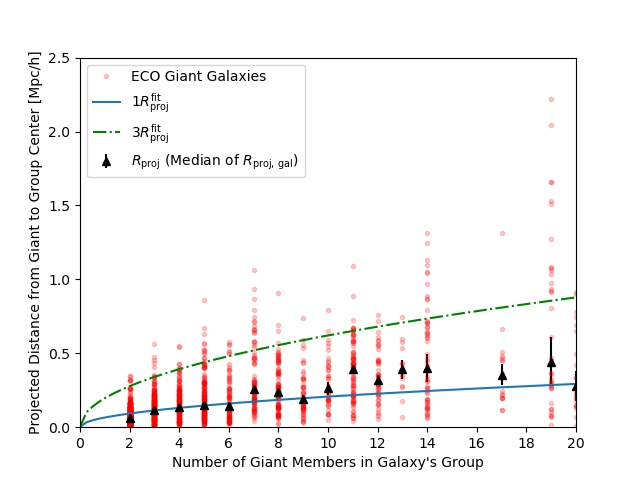
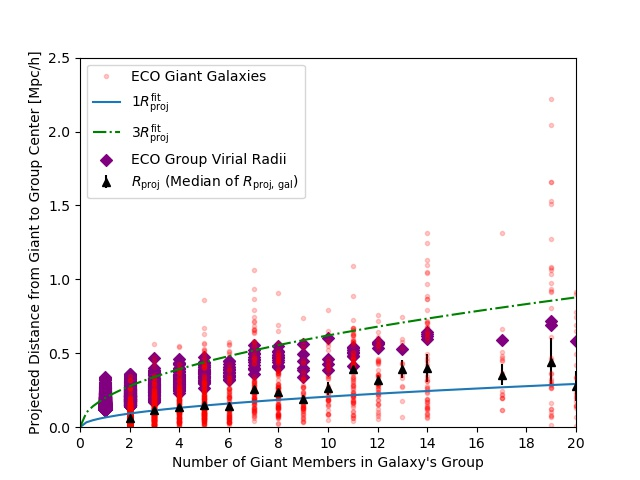
updated step 2 graphic

diff --git a/readme.md b/readme.md
@@ -30,7 +30,7 @@ Note: Positions of group centers -- `g3grpradeg`, `g3grpdedeg`, `g3grpcz` -- are
 ## Step 1: Finding Giant-Only Cores of Groups
 <details>
 
-In the first step of the group finder, we use friends-of-friends (FoF)  to locate groups of giant galaxies. We place our definition of the giant-dwarf divide at the cusp in<a href="users.castle.unc.edu/~zhutchen/dwarfgiantdivide_stellar.jpg">M*-L relation</a>, which occurs at log stellar mass ~9.5. This mass is approximately equal to the gas-richness threshold scale in stellar mass (Eckert+ 2016). For baryonic mass, we look at the <a href="users.castle.unc.edu/~zhutchen/dwarfgiantdivide_baryonic.jpg">correlation between r-band luminosity and baryonic mass </a>, and divide dwarfs from giants at its intersection with `M_r = -19.4` (which defined the M*-L cusp).
+In the first step of the group finder, we use friends-of-friends (FoF)  to locate groups of giant galaxies. We place our definition of the giant-dwarf divide at the cusp in the <a href="users.castle.unc.edu/~zhutchen/dwarfgiantdivide_stellar.jpg">M*-L relation</a>, which occurs at log stellar mass ~9.5. This mass is approximately equal to the gas-richness threshold scale in stellar mass (Eckert+ 2016). For baryonic mass, we look at the <a href="users.castle.unc.edu/~zhutchen/dwarfgiantdivide_baryonic.jpg">correlation between r-band luminosity and baryonic mass </a>, and divide dwarfs from giants at its intersection with `M_r = -19.4` (which defined the M*-L cusp).
 
 
 Therefore our selection criteria for giant-only FoF are:
@@ -56,12 +56,11 @@ At the end of step 1, we have a set of giant-only groups. All dwarfs have yet to
 ## Step 2: Associating Dwarf Galaxies to Giant-Only Groups
 <details>
 
-The next step is associate dwarf galaxies into the giant-only groups. To do so, we use the individual relative projected radii and peculiar velocities of giants to calibrate search boundaries for dwarfs. The figure below shows this calibration as a function of giant-only group N, allowing us to avoid halo mass estimates (which are problematic for high-z LADUMA work). An analagous calibration is done in velocity, but it is not shown here for brevity.
-
+The next step is to associate dwarf galaxies into the giant-only groups. To make this algorithm compatible with surveys that are incomplete into the dwarf regime, we must avoid halo mass estimates in those datasets. Therefore, we use the individual relative projected radii and peculiar velocities of ECO giant galaxies to calibrate search boundaries for dwarfs. This calibration is obtained by fitting a curve to the outermost galaxy radii in bins of giant-only group N, and comparing this curve to the expected virial radii in ECO, for which we *know* is dwarf-complete. This calibration is shown in the plot below, and while a similar calibration is done in velocity, it is not shown here for brevity. We also note that this calibration is done separately for each group-finding sample, as the giant-only FoF groups are slightly different for each selection.
 
 ![Group boundary calibration](images/rproj_calibration_assoc.jpg)
 
-The fit to medians, binned by giant-only group N, of the projected radii and velocities are shown in the blue line. The green dash-dotted line shows the optimal radii for associating dwarf galaxies, 3R<sub>proj</sub><sup>fit</sup> (or 4.5v<sub>proj</sub><sup>fit</sup> in velocity), because it is the radius that would enclose nearly-all giant galaxies if their groups were stacked at fixed N. Therefore, if a dwarf galaxy fills within  3R<sub>proj</sub><sup>fit</sup> and 4.5v<sub>proj</sub><sup>fit</sup> of a giant-only FoF group, we associate the dwarf as a group member. The cartoon below illustrates this concept. 
+The fit to medians, binned by giant-only group N, of the projected radii and velocities are shown in the blue line. The green dash-dotted line shows the optimal radii for associating dwarf galaxies, 3R<sub>proj</sub><sup>fit</sup> (or 4.5v<sub>proj</sub><sup>fit</sup> in velocity), because it is the radius that would enclose nearly-all giant galaxies if their groups were stacked at fixed N. Therefore, if a dwarf galaxy fills within  3R<sub>proj</sub><sup>fit</sup> and 4.5v<sub>proj</sub><sup>fit</sup> of a giant-only FoF group, we associate the dwarf as a group member. The cartoon below illustrates this concept. With this calibration from ECO in hand, we can apply it to other surveys for which the halo mass information does not exist. 
 
 <img src="images/assocdiagram2.jpeg" width="500" align='center'/>
 
